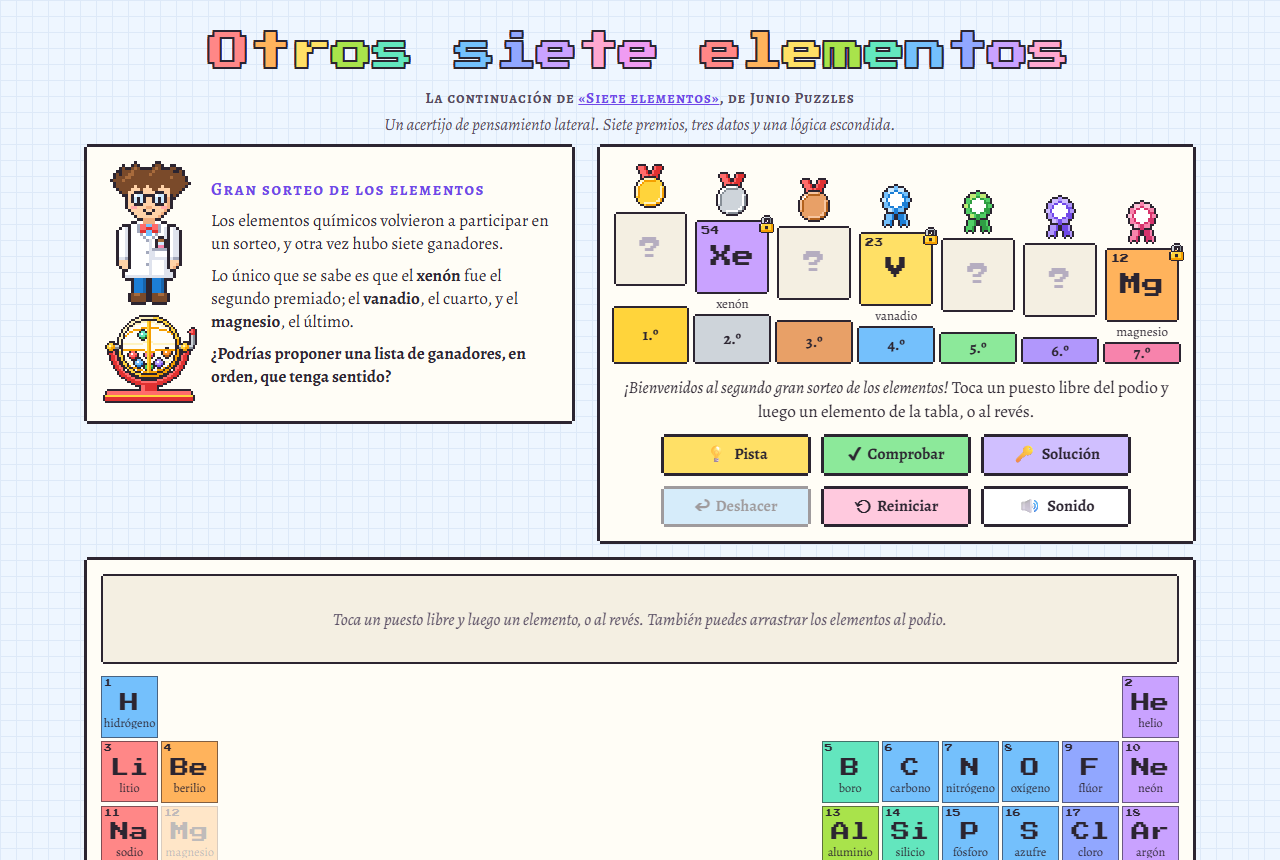
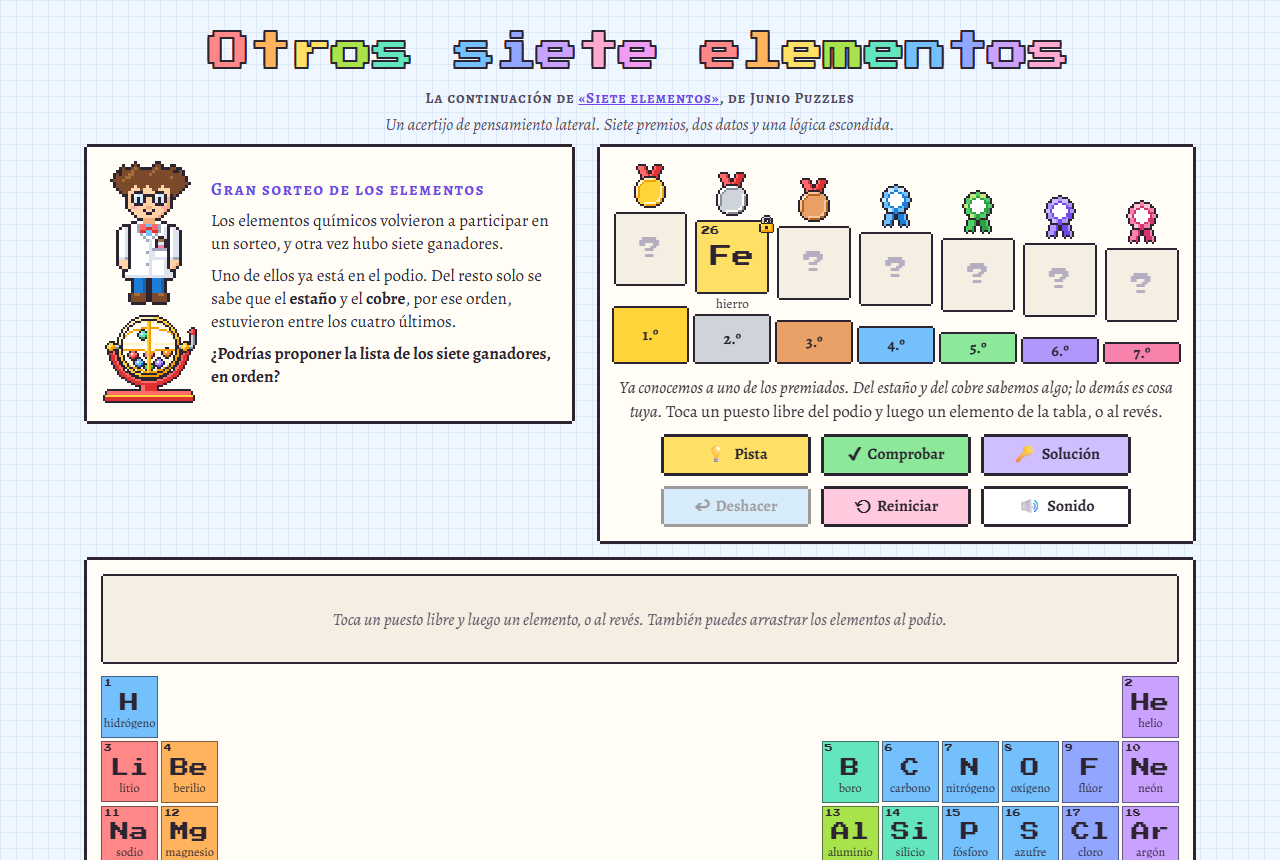
Otros siete elementos, segunda versión: una lógica nueva y más difícil (juego web)
- Un premiado fijo en el podio y un solo dato en el enunciado.
- Pistas, mensajes, ayuda y README nuevos.

diff --git a/index.html b/index.html
@@ -4,7 +4,7 @@
 <meta charset="utf-8">
 <meta name="viewport" content="width=device-width,initial-scale=1,viewport-fit=cover">
 <title>Otros siete elementos</title>
-<meta name="description" content="Un acertijo de pensamiento lateral: los elementos químicos vuelven a un sorteo con siete premios. Solo se sabe quién quedó 2.º, 4.º y último. ¿Puedes proponer una lista de ganadores que tenga sentido?">
+<meta name="description" content="Un acertijo de pensamiento lateral: los elementos químicos vuelven a un sorteo con siete premios. Uno ya está en el podio, y del resto solo se sabe que el estaño y el cobre, por ese orden, estuvieron entre los cuatro últimos. ¿Quiénes fueron los siete, y en qué orden?">
 <link rel="preconnect" href="https://fonts.googleapis.com"><link rel="preconnect" href="https://fonts.gstatic.com" crossorigin>
 <link href="https://fonts.googleapis.com/css2?family=Alegreya:ital,wght@0,400;0,700;1,400&family=Alegreya+SC:wght@700&family=Press+Start+2P&display=swap" rel="stylesheet">
 <style>
@@ -139,12 +139,13 @@ canvas.px{image-rendering:pixelated;image-rendering:crisp-edges}
 .pie{display:flex;gap:10px;justify-content:center;flex-wrap:wrap;margin-top:12px}
 .premio-tit{font-family:var(--pixel);font-size:clamp(20px,6vw,32px);margin:8px 0 14px;color:var(--oro);
   text-shadow:2px 0 0 var(--tinta),-2px 0 0 var(--tinta),0 2px 0 var(--tinta),0 -2px 0 var(--tinta),2px 2px 0 var(--tinta),-2px -2px 0 var(--tinta),2px -2px 0 var(--tinta),-2px 2px 0 var(--tinta)}
-.panel{--tk:clamp(21px,6.9vw,44px);display:inline-block;background:#e9dfc4;padding:8px 10px 10px;box-shadow:var(--borde);margin:4px 3px 12px;max-width:100%;text-align:left}
-.panel-fila{display:flex;gap:3px;margin:3px 0}
-.panel-fila:nth-child(2){margin-left:calc(var(--tk) * .3)}
-.panel-fila:nth-child(3){margin-left:calc(var(--tk) * .8)}
-.pieza{position:relative;width:var(--tk);height:var(--tk);background:#fffdf6;box-shadow:inset 0 0 0 2px var(--tinta),inset 0 -4px 0 0 #d8ccad;display:flex;flex-direction:column;align-items:center;justify-content:center;gap:calc(var(--tk) * .08);font-family:var(--pixel);font-size:calc(var(--tk) * .3);line-height:1;padding-bottom:3px}
-.pieza small{font-size:calc(var(--tk) * .19);line-height:1}
+/* el panel del premio: siete casillas, una por ganador, que se van encendiendo */
+.panel{--tk:clamp(38px,11.5vw,70px);display:flex;gap:4px;justify-content:center;background:#e9dfc4;padding:10px 8px 12px;box-shadow:var(--borde);margin:4px 3px 12px;max-width:100%}
+.pieza{position:relative;width:var(--tk);height:calc(var(--tk) * 1.55);background:#fffdf6;box-shadow:inset 0 0 0 2px var(--tinta),inset 0 -4px 0 0 #d8ccad;display:flex;flex-direction:column;align-items:center;justify-content:center;gap:calc(var(--tk) * .07);line-height:1;padding-bottom:4px}
+.pieza b{font-family:var(--pixel);font-weight:400;font-size:calc(var(--tk) * .32)}
+/* el nombre bajo la letra tiene que caber entero también en el móvil (el más largo, en 41 px): letra pequeña y sin espaciado */
+.pieza em{font-family:'Alegreya SC',var(--texto);font-style:normal;font-weight:700;font-size:clamp(6.5px,calc(var(--tk) * .185),14px);color:var(--tinta2);letter-spacing:0;max-width:100%;white-space:nowrap;padding:0 1px}
+.pieza small{font-family:var(--pixel);font-size:calc(var(--tk) * .19);line-height:1}
 .pieza small:empty{display:none}
 .pieza.on{background:var(--c);animation:pulsa .3s steps(2)}
 @keyframes pulsa{50%{transform:translateY(-4px)}}
@@ -164,7 +165,7 @@ body.arrastrando,body.arrastrando *{cursor:grabbing!important}
 <header class="cabecera">
   <h1 id="titulo" aria-label="Otros siete elementos">Otros siete elementos</h1>
   <p class="continuacion">La continuación de <a href="https://juniopuzzles.wordpress.com/2026/10/25/siete-elementos/">«Siete elementos»</a>, de Junio Puzzles</p>
-  <p class="lema">Un acertijo de pensamiento lateral. Siete premios, tres datos y una lógica escondida.</p>
+  <p class="lema">Un acertijo de pensamiento lateral. Siete premios, dos datos y una lógica escondida.</p>
 </header>
 <div class="arriba">
   <section class="caja cartel" aria-label="El sorteo">
@@ -172,8 +173,8 @@ body.arrastrando,body.arrastrando *{cursor:grabbing!important}
     <div class="bocadillo">
       <p class="rotulo">Gran sorteo de los elementos</p>
       <p>Los elementos químicos volvieron a participar en un sorteo, y otra vez hubo siete ganadores.</p>
-      <p>Lo único que se sabe es que el <b>xenón</b> fue el segundo premiado; el <b>vanadio</b>, el cuarto, y el <b>magnesio</b>, el último.</p>
-      <p class="pregunta">¿Podrías proponer una lista de ganadores, en orden, que tenga sentido?</p>
+      <p>Uno de ellos ya está en el podio. Del resto solo se sabe que el <b>estaño</b> y el <b>cobre</b>, por ese orden, estuvieron entre los cuatro últimos.</p>
+      <p class="pregunta">¿Podrías proponer la lista de los siete ganadores, en orden?</p>
     </div>
   </section>
   <section class="caja" aria-label="El podio">
@@ -198,10 +199,10 @@ body.arrastrando,body.arrastrando *{cursor:grabbing!important}
 <section class="caja como">
   <details open><summary>Cómo se juega</summary>
     <p>• Toca un puesto libre del podio y después un elemento de la tabla periódica, o al revés. En el ordenador también puedes arrastrar. Toca un puesto ocupado para vaciarlo.</p>
-    <p>• El xenón (2.º), el vanadio (4.º) y el magnesio (7.º) ya están en su sitio. Un elemento no puede ganar dos veces.</p>
+    <p>• Uno de los premiados ya está en su sitio, con candado. Un elemento no puede ganar dos veces.</p>
     <p>• Al completar el podio, o al pulsar <b>✔ Comprobar</b>, sabrás si la lista vale, pero no qué casilla falla.</p>
-    <p>• <b>💡 Pista</b> te ayuda un poco más cada vez que la pulsas. <b>🔑 Solución</b> enseña una lista que vale.</p>
-    <p>• Hay muchas listas posibles: basta con que la tuya siga la lógica del sorteo.</p>
+    <p>• <b>💡 Pista</b> te ayuda un poco más cada vez que la pulsas. <b>🔑 Solución</b> enseña la lista.</p>
+    <p>• Hay una sola lista que encaja: la que sigue la lógica del sorteo.</p>
   </details>
 </section>
 </div>
@@ -1025,13 +1026,13 @@ const ELEMENTOS = [
     for (let i = 0; i < bin.length; i++) bytes[i] = bin.charCodeAt(i) ^ clave.charCodeAt(i % clave.length);
     return JSON.parse(new TextDecoder().decode(bytes));
   }
[1 lines of base64/hex data omitted]
-  const FILA = S.fila;
[1 lines of base64/hex data omitted]
   const OFICIAL = S.oficial;
-  // tres datos fijos: el magnesio, último, lo añadió Fali (27-oct) para que no valga el alfabeto al revés (Y X W V U T S)
-  const INICIAL = [null, 'Xe', null, 'V', null, null, 'Mg'];
+  // el podio arranca con un solo premiado, fijo en el 2.º, que el texto no nombra; el enunciado habla solo del estaño y
+  // del cobre (Fali, 27-oct: con el 6.º fijo cabía otra lectura)
+  const INICIAL = OFICIAL.map((s, i) => (i === 1 ? s : null));
   const FIJO = INICIAL.map(Boolean);
-  const LIBRES = [0, 2, 4, 5];
+  const LIBRES = [0, 2, 3, 4, 5, 6];
   const N_TEXTO = S.pistas.length; // pistas que solo dicen algo; las demás colocan un ganador
   const N_PISTAS = N_TEXTO + LIBRES.length;
   const FAMILIAS = { alc: 'alcalinos', alt: 'alcalinotérreos', tra: 'metales de transición', pos: 'otros metales', met: 'metaloides', nom: 'no metales', hal: 'halógenos', gas: 'gases nobles', lan: 'lantánidos', act: 'actínidos' };
@@ -1039,7 +1040,7 @@ const ELEMENTOS = [
   const MSG_INICIO = 'Toca un puesto libre del podio y luego un elemento de la tabla, o al revés.';
   // frases del presentador (de Cowork): donde hay varias, una al azar
   const FRASES = {
-    inicio: ['¡Bienvenidos al segundo gran sorteo de los elementos!', 'Ya conocemos a tres de los premiados. Los otros cuatro son cosa tuya.'],
+    inicio: ['¡Bienvenidos al segundo gran sorteo de los elementos!', 'Ya conocemos a uno de los premiados. Del estaño y del cobre sabemos algo; lo demás es cosa tuya.'],
     poner: ['Anotado.', 'Interesante elección…', '¿Seguro? Aquí nada es casualidad.', 'Ese elemento se va a poner muy contento.'],
     quitar: ['Fuera del podio. Sin rencores.'],
     pista: ['Te doy una pista, pero que no se entere el notario.'],
@@ -1048,50 +1049,35 @@ const ELEMENTOS = [
     espera: ['Tómate tu tiempo: el bombo no tiene prisa.'],
   };
   const frase = (k) => `<i>${FRASES[k][Math.floor(Math.random() * FRASES[k].length)]}</i>`;
-  const MSG_CASI = '¡Caliente, caliente! Pero aquí mandan los símbolos, no los nombres.';
 
   const EL = new Map();
   for (const [z, s, es, en, p, g, f] of ELEMENTOS) EL.set(s, { z, s, es, en, p, g, f });
   const ord = (i) => (i + 1) + '.º';
+  // delante de «puesto» o «ganador» van primer y tercer: 1.er y 3.er (RAE; Cowork)
+  const ordM = (i) => (i === 0 ? '1.er' : i === 2 ? '3.er' : ord(i));
+  const delNombre = (e) => (e.es === 'plata' ? 'de la ' : 'del ') + e.es;
+  const avisoFijo = (i) => aviso(`El ${ordM(i)} puesto es ${delNombre(EL.get(INICIAL[i]))}: ese premio ya se sabía.`);
   const nombreDe = (e) => `${e.es === 'plata' ? 'la' : 'el'} ${e.es} (${e.s})`;
   const cap = (t) => t.charAt(0).toUpperCase() + t.slice(1);
-  const encaja = (s, i) => !!s && s[0] === FILA[i];
-  // «casi»: la casilla vale por el nombre (en español o en inglés) pero no por el símbolo: el cinc o el circonio en la C
-  const porNombre = (s, i) => { const e = EL.get(s); return !!e && (e.es[0].toUpperCase() === FILA[i] || e.en[0].toUpperCase() === FILA[i]); };
-  const casi = (lista) => !valida(lista) && lista.every((s, i) => s && (encaja(s, i) || porNombre(s, i))) && new Set(lista).size === 7;
-  // listas que solo están ordenadas (de mayor a menor número atómico, o símbolos o nombres al revés del alfabeto)
-  const bajan = (xs, cmp) => xs.every((x, i) => i === 0 || cmp(xs[i - 1], x) > 0);
-  const alfa = (a, b) => a.localeCompare(b, 'es', { sensitivity: 'base' });
-  const ordenada = (lista) => bajan(lista.map((s) => EL.get(s).z), (a, b) => a - b) || bajan(lista, alfa) || bajan(lista.map((s) => EL.get(s).es), alfa);
-  // dominó de números atómicos (Cowork): cada número empieza por la última cifra del anterior, o al revés
-  const encadena = (lista, f) => lista.map((s) => String(EL.get(s).z)).every((z, i, zs) => i === 0 || f(zs[i - 1], z));
-  const domino = (lista) => encadena(lista, (a, b) => b[0] === a[a.length - 1]) || encadena(lista, (a, b) => b[b.length - 1] === a[0]);
-  // qué contesta el juego a una lista completa
+  // la lista es única: vale solo la oficial
+  const valida = (lista) => Array.isArray(lista) && lista.length === 7 && lista.every((s, i) => s === OFICIAL[i]);
+  const DE_LA_LISTA = new Set(OFICIAL);
+  // los siete ganadores, en el orden que sea
+  const losSiete = (lista) => lista.every((s) => DE_LA_LISTA.has(s)) && new Set(lista).size === 7;
+  // el dato del enunciado: el estaño y el cobre, por ese orden, entre los cuatro últimos (del 4.º al 7.º)
+  const cumple = (lista) => { const a = lista.indexOf('Sn'), b = lista.indexOf('Cu'); return a >= 3 && b >= 3 && a < b; };
+  // qué contesta el juego a una lista completa (Cowork): vale > no cumple el enunciado > los siete en otro orden > no cuadra.
+  // Ya no hace falta el mensaje de las listas ordenadas: con el estaño antes que el cobre, ninguna lista que cumpla el
+  // enunciado va por el abecedario ni por el número atómico creciente
   function veredicto(lista) {
     if (valida(lista)) return 'vale';
-    if (casi(lista)) return 'casi';
-    if (ordenada(lista)) return 'orden';
-    if (domino(lista)) return 'domino';
+    if (!cumple(lista)) return 'enunciado';
+    if (losSiete(lista)) return 'conjunto';
     return 'no';
   }
-  function valida(lista) {
-    return Array.isArray(lista) && lista.length === 7 && lista.every((s) => EL.has(s)) &&
-      new Set(lista).size === 7 && lista.every((s, i) => encaja(s, i) && (!FIJO[i] || s === INICIAL[i]));
-  }
-  const CANDIDATOS = [...FILA].map((L, i) => (FIJO[i] ? [INICIAL[i]] : ELEMENTOS.filter((e) => e[1][0] === L).map((e) => e[1])));
-  // cuántas listas valen: se enumeran una a una
-  const TOTAL = (() => {
-    let n = 0;
-    const usados = new Set();
-    (function rec(i) {
-      if (i === 7) { n++; return; }
-      for (const s of CANDIDATOS[i]) if (!usados.has(s)) { usados.add(s); rec(i + 1); usados.delete(s); }
-    })(0);
-    return n;
-  })();
-  // con la última pista de texto se iluminan los candidatos de los puestos libres
-  const LETRAS_LIBRES = LIBRES.map((i) => FILA[i]).join('');
-  const N_BRILLAN = LIBRES.reduce((a, i) => a + CANDIDATOS[i].length, 0);
+  // con la última pista de texto se iluminan en la tabla los ganadores que faltan por colocar
+  const BRILLAN = LIBRES.map((i) => OFICIAL[i]);
+  const N_BRILLAN = BRILLAN.length;
 
   // casilla de cada elemento en la tabla: fila 1-7 los periodos, 8 hueco, 9 lantánidos, 10 actínidos
   function sitio(e) {
@@ -1112,7 +1098,7 @@ const ELEMENTOS = [
   }
 
   // ---------- estado y guardado ----------
-  const CLAVE = 'otros-siete-elementos-v1';
+  const CLAVE = 'otros-siete-elementos-v2'; // v2: lógica nueva; las partidas guardadas de la v1 no sirven
   const opciones = { sonido: true };
   const nuevo = () => ({ podio: INICIAL.slice(), pistas: 0, fallos: 0, resaltar: false, ganado: false, conSolucion: false, ultimaMala: null });
   function podioBueno(p) {
@@ -1205,7 +1191,7 @@ const ELEMENTOS = [
   tabla.querySelectorAll('.el').forEach((b) => CELDA.set(b.dataset.s, b));
   $('leyenda').innerHTML = Object.entries(FAMILIAS).map(([k, n]) => `<span><i style="--c:var(--${k})"></i>${n}</span>`).join('');
   const panel = $('panel');
-  panel.innerHTML = S.filas.map((f) => `<div class="panel-fila">${[...f].map((L) => `<span class="pieza" data-l="${L}">${L}<small></small></span>`).join('')}</div>`).join('');
+  panel.innerHTML = S.casillas.map((d, i) => `<span class="pieza" data-d="${i}" title="${d.t}"><b>${d.c}</b><em>${d.e}</em><small></small></span>`).join('');
 
   function medir() {
     const cw = (tabla.clientWidth - 17 * 2) / 18;
@@ -1231,7 +1217,7 @@ const ELEMENTOS = [
       b.classList.toggle('vacio', !e);
       b.classList.toggle('sel', selPuesto === i);
       b.setAttribute('aria-pressed', selPuesto === i ? 'true' : 'false');
-      b.setAttribute('aria-label', `${ord(i)} puesto: ${e ? e.es : 'vacío'}${FIJO[i] ? ', fijo' : ''}`);
+      b.setAttribute('aria-label', `${ordM(i)} puesto: ${e ? e.es : 'vacío'}${FIJO[i] ? ', fijo' : ''}`);
     });
   }
   function pintarTabla() {
@@ -1239,7 +1225,7 @@ const ELEMENTOS = [
     for (const [s, b] of CELDA) {
       b.classList.toggle('usado', usados.has(s));
       b.classList.toggle('elegido', selElem === s);
-      b.classList.toggle('brilla', est.resaltar && LETRAS_LIBRES.includes(s[0]));
+      b.classList.toggle('brilla', est.resaltar && BRILLAN.includes(s));
       b.setAttribute('aria-pressed', selElem === s ? 'true' : 'false');
     }
   }
@@ -1253,8 +1239,8 @@ const ELEMENTOS = [
     }
     const donde = est.podio.indexOf(e.s);
     let nota = '', poner = '';
-    if (donde >= 0 && FIJO[donde]) nota = `<p class="nota">Es el ${ord(donde)} ganador: lo dice el enunciado.</p>`;
-    else if (donde >= 0) nota = `<p class="nota">Está en el ${ord(donde)} puesto.${est.ganado || ocupado ? '' : ` <button class="enlace" data-quitar="${donde}">Quitarlo</button>`}</p>`;
+    if (donde >= 0 && FIJO[donde]) nota = `<p class="nota">Es el ${ordM(donde)} ganador: ya estaba en el podio.</p>`;
+    else if (donde >= 0) nota = `<p class="nota">Está en el ${ordM(donde)} puesto.${est.ganado || ocupado ? '' : ` <button class="enlace" data-quitar="${donde}">Quitarlo</button>`}</p>`;
     if (!est.ganado && !ocupado && !(donde >= 0 && FIJO[donde])) {
       poner = `<div class="poner"><span>${donde >= 0 ? 'Moverlo al:' : 'Ponerlo en el:'}</span>` + LIBRES.map((i) => {
         const otro = est.podio[i];
@@ -1347,15 +1333,15 @@ const ELEMENTOS = [
   function apuntar() { hist.push(est.podio.slice()); if (hist.length > 300) hist.shift(); }
   function colocar(s, i) {
     if (ocupado || est.ganado || !EL.has(s)) return false;
-    if (FIJO[i]) { aviso(`El ${ord(i)} puesto es del ${EL.get(INICIAL[i]).es}: lo dice el enunciado.`); return false; }
+    if (FIJO[i]) { avisoFijo(i); return false; }
     const ya = est.podio.indexOf(s);
-    if (ya >= 0 && FIJO[ya]) { aviso(`${cap(nombreDe(EL.get(s)))} es el ${ord(ya)} ganador: no se mueve.`); return false; }
+    if (ya >= 0 && FIJO[ya]) { aviso(`${cap(nombreDe(EL.get(s)))} es el ${ordM(ya)} ganador: no se mueve.`); return false; }
     if (ya === i) return false;
     apuntar();
     if (ya >= 0) est.podio[ya] = null;
     est.podio[i] = s;
     selPuesto = null; selElem = null;
-    decir(`${frase('poner')} ${ord(i)} puesto: ${nombreDe(EL.get(s))}.`);
+    decir(`${frase('poner')} ${ordM(i)} puesto: ${nombreDe(EL.get(s))}.`);
     girarBombo();
     cambiado();
     if (!revisarFinal()) sonar('poner');
@@ -1363,12 +1349,12 @@ const ELEMENTOS = [
   }
   function quitar(i) {
     if (ocupado || est.ganado) return;
-    if (FIJO[i]) { aviso(`El ${ord(i)} puesto es del ${EL.get(INICIAL[i]).es}: lo dice el enunciado.`); return; }
+    if (FIJO[i]) { avisoFijo(i); return; }
     const s = est.podio[i];
     if (!s) return;
     apuntar();
     est.podio[i] = null; selElem = null;
-    decir(`${frase('quitar')} Has quitado ${nombreDe(EL.get(s))} del ${ord(i)} puesto.`);
+    decir(`${frase('quitar')} Has quitado ${nombreDe(EL.get(s))} del ${ordM(i)} puesto.`);
     sonar('quitar');
     cambiado();
   }
@@ -1378,17 +1364,15 @@ const ELEMENTOS = [
     juzgar('wahwah');
     return true;
   }
-  // lista completa: premio, «casi» (no cuenta como fallo) o fallo; el sonido del fallo depende de quién pregunta
+  // lista completa: premio o fallo (con mensaje propio si son los siete pero en otro orden); el sonido depende de quién pregunta
   function juzgar(sonidoFallo) {
     const v = veredicto(est.podio);
     if (v === 'vale') { victoria(false); return; }
-    if (v === 'casi') { sonar('no'); decir(MSG_CASI); return; }
     contarFallo();
     sonar(sonidoFallo);
-    // a las listas que solo están ordenadas se les dice que ordenar no es la lógica (el aviso anterior hacía creer que el orden era el bueno)
     const motivo = {
-      orden: 'No cuadra. Ordenarlos por el abecedario o por el número atómico no es la lógica del sorteo.',
-      domino: 'No cuadra. Encadenar las cifras de los números atómicos no es la lógica del sorteo.',
+      enunciado: 'Así no cumple el enunciado: el estaño y el cobre, por ese orden, estuvieron entre los cuatro últimos.' + (losSiete(est.podio) ? ' ¡Pero son los siete!' : ''),
+      conjunto: S.conjunto,
     };
     decir((motivo[v] || 'No cuadra. Los premios no cayeron al azar.') +
       (est.fallos >= 3 ? ' ¿Te echo una mano? Pulsa 💡 Pista.' : ''));
@@ -1401,11 +1385,11 @@ const ELEMENTOS = [
   function tocarPuesto(i) {
     if (ocupado) return;
     if (est.ganado) { aviso('Ya está resuelto. Pulsa ⟲ Reiniciar para jugar otra vez.'); return; }
-    if (FIJO[i]) { aviso(`El ${ord(i)} puesto es del ${EL.get(INICIAL[i]).es}: lo dice el enunciado.`); return; }
+    if (FIJO[i]) { avisoFijo(i); return; }
     if (selElem && est.podio[i] !== selElem) { colocar(selElem, i); return; }
     if (est.podio[i]) { quitar(i); return; }
     selPuesto = selPuesto === i ? null : i;
-    decir(selPuesto === null ? MSG_INICIO : `Ahora elige en la tabla al ${ord(i)} ganador.`);
+    decir(selPuesto === null ? MSG_INICIO : `Ahora elige en la tabla al ${ordM(i)} ganador.`);
     sonar('clic');
     pintar();
   }
@@ -1467,16 +1451,16 @@ const ELEMENTOS = [
     if (est.pistas < N_TEXTO) {
       est.pistas++;
       if (est.pistas === N_TEXTO) est.resaltar = true; // con la última pista de texto se iluminan los candidatos
-      mostrarPista(est.pistas, TEXTOS_PISTA[est.pistas - 1] + (est.pistas === N_TEXTO ? ` <span class="nota">Te he iluminado en la tabla los ${N_BRILLAN} elementos que pueden servir.</span>` : ''));
+      mostrarPista(est.pistas, TEXTOS_PISTA[est.pistas - 1] + (est.pistas === N_TEXTO ? ` <span class="nota">Te he iluminado en la tabla los ${N_BRILLAN} ganadores que faltan.</span>` : ''));
       decir(frase('pista'));
       sonar('pista');
       cambiado();
       return;
     }
-    // antes de colocar, señala los puestos que no encajan
-    const mal = LIBRES.filter((i) => est.podio[i] && !encaja(est.podio[i], i));
+    // antes de colocar, señala los puestos que no son los de la lista
+    const mal = LIBRES.filter((i) => est.podio[i] && est.podio[i] !== OFICIAL[i]);
     if (mal.length) {
-      const lista = mal.map((i) => `<li>El ${ord(i)}, ${nombreDe(EL.get(est.podio[i]))}: el símbolo tiene que empezar por ${FILA[i]}.</li>`).join('');
+      const lista = mal.map((i) => `<li>El ${ord(i)}, ${nombreDe(EL.get(est.podio[i]))}: no es el ganador de ese puesto.</li>`).join('');
       abrirModal(`<h2>ANTES DE LA PISTA</h2><p>${mal.length === 1 ? 'Hay un ganador que no encaja:' : `Hay ${mal.length} ganadores que no encajan:`}</p><ul style="text-align:left;margin:6px auto;max-width:460px;padding-left:22px">${lista}</ul>` +
         `<div class="pie"><button class="boton b-pista" data-a="quitar">Quitar${mal.length === 1 ? 'lo' : 'los'} y ver la pista</button><button class="boton" data-a="no">Ahora no</button></div>`, (c) => {
         c.querySelector('[data-a="quitar"]').onclick = () => { apuntar(); for (const i of mal) est.podio[i] = null; cerrarModal(); sonar('quitar'); cambiado(); pedirPista(); };
@@ -1490,8 +1474,8 @@ const ELEMENTOS = [
     est.podio[i] = OFICIAL[i];
     est.pistas++;
     selPuesto = null; selElem = null;
-    mostrarPista(est.pistas, `Te coloco un ganador: el ${ord(i)} puesto es para ${nombreDe(EL.get(OFICIAL[i]))}.`);
-    decir(`${ord(i)} puesto: ${nombreDe(EL.get(OFICIAL[i]))}.`);
+    mostrarPista(est.pistas, `Te coloco un ganador: el ${ordM(i)} puesto es para ${nombreDe(EL.get(OFICIAL[i]))}.`);
+    decir(`${ordM(i)} puesto: ${nombreDe(EL.get(OFICIAL[i]))}.`);
     girarBombo();
     cambiado();
     if (!revisarFinal()) sonar('pista');
@@ -1512,7 +1496,7 @@ const ELEMENTOS = [
     for (const i of LIBRES) {
       est.podio[i] = OFICIAL[i];
       guardar(); pintar(); sonar('poner'); girarBombo();
-      decir(`🔑 ${ord(i)} puesto: ${nombreDe(EL.get(OFICIAL[i]))}.`);
+      decir(`🔑 ${ordM(i)} puesto: ${nombreDe(EL.get(OFICIAL[i]))}.`);
       await espera(900); if (t !== tok) return;
     }
     victoria(true, t);
@@ -1524,14 +1508,14 @@ const ELEMENTOS = [
   }
   function cerrarPremio() { premio.hidden = true; }
   function encender(i) {
-    const s = est.podio[i], e = EL.get(s), k = panel.querySelector(`[data-l="${FILA[i]}"]`);
+    const s = est.podio[i], e = EL.get(s), k = panel.querySelector(`[data-d="${i}"]`);
     k.classList.add('on'); k.style.setProperty('--c', `var(--${e.f})`); k.querySelector('small').textContent = s;
   }
   function volar(i, t) {
     return new Promise((res) => {
       const fin = () => { if (t === tok) { encender(i); sonar('nota' + i); } res(); };
       const desde = PUESTOS[i].querySelector('.losa').getBoundingClientRect();
-      const hasta = panel.querySelector(`[data-l="${FILA[i]}"]`).getBoundingClientRect();
+      const hasta = panel.querySelector(`[data-d="${i}"]`).getBoundingClientRect();
       if (reducido || !desde.width || !hasta.width) { setTimeout(fin, 280); return; }
       const e = EL.get(est.podio[i]), v = document.createElement('div');
       v.className = 'vuelo'; v.textContent = e.s;
@@ -1546,12 +1530,14 @@ const ELEMENTOS = [
       setTimeout(() => { v.remove(); fin(); }, 500);
     });
   }
-  // textos de Cowork (§6); los que dicen el truco vienen cifrados en S
+  // el texto que explica el truco viene cifrado en S
   function textoPremio() {
-    if (est.conSolucion) return `<p>${S.premioSolucion.replace('{N}', `<b>${TOTAL}</b>`)}</p><p>Pulsa ⟲ Reiniciar y busca la tuya.</p>`;
-    const oficial = est.podio.every((s, i) => s === OFICIAL[i]);
-    return `<p>${S.premio}</p><p>Hay <b>${TOTAL}</b> listas que encajan, y la tuya es una de ellas.${oficial ? ' Además, es la lista oficial.' : ''}</p>` +
-      `<p><b>${est.pistas === 0 ? 'Sin pistas. ¡Enhorabuena!' : est.pistas === 1 ? 'Con 1 pista.' : `Con ${est.pistas} pistas.`}</b></p>`;
+    if (est.conSolucion) return `<p>${S.premio}</p><p>Es la única lista que encaja. Pulsa ⟲ Reiniciar y juega tú.</p>`;
+    // se enseñan también las listas rechazadas, para que quien fuerce el orden lo vea en su resultado (Cowork)
+    const pistas = est.pistas === 0 ? 'Sin pistas' : est.pistas === 1 ? 'Con 1 pista' : `Con ${est.pistas} pistas`;
+    const fallos = est.fallos === 0 ? 'y a la primera' : est.fallos === 1 ? 'y 1 lista rechazada' : `y ${est.fallos} listas rechazadas`;
+    return `<p>${S.premio}</p><p>Es la única lista que encaja, y la has encontrado.</p>` +
+      `<p><b>${pistas} ${fallos}.${est.pistas === 0 && est.fallos === 0 ? ' ¡Enhorabuena!' : ''}</b></p>`;
   }
   async function victoria(conSol, t0) {
     const t = t0 || ++tok;
@@ -1701,9 +1687,9 @@ const ELEMENTOS = [
   else { msg.innerHTML = `${frase('inicio')} ${MSG_INICIO}`; esperar(); }
   pintar();
 
-  // para el robot de pruebas
+  // para el robot de pruebas (sin la lista oficial ni los que se iluminan: que destripar cueste algo, Cowork)
   window.OSE = {
-    ELEMENTOS, FILA, OFICIAL, N_PISTAS, total: TOTAL, nBrillan: N_BRILLAN, candidatos: CANDIDATOS, valida, veredicto, sonados,
+    ELEMENTOS, N_PISTAS, nBrillan: N_BRILLAN, valida, veredicto, sonados,
     estado: () => JSON.parse(JSON.stringify({ est, selPuesto, selElem, ocupado, hist: hist.length, directo })),
   };
 })();

diff --git a/README.md b/README.md
@@ -1,8 +1,9 @@
 # Otros siete elementos
 
-Un acertijo de pensamiento lateral. Los elementos químicos vuelven a un sorteo con siete premios, y solo se sabe que
-el xenón fue el segundo; el vanadio, el cuarto, y el magnesio, el último. ¿Puedes proponer una lista de ganadores que
-tenga sentido? Juego web autónomo en un único `index.html`.
+Un acertijo de pensamiento lateral. Los elementos químicos vuelven a un sorteo con siete premios. Uno de los ganadores
+ya está en el podio, y del resto solo se sabe que el estaño y el cobre, por ese orden, estuvieron entre los cuatro
+últimos. ¿Quiénes fueron los siete, y en qué orden?
+Juego web autónomo en un único `index.html`.
 
 **Jugar:** https://spyder-cripto.github.io/otros-siete-elementos/
 
@@ -11,10 +12,10 @@ tenga sentido? Juego web autónomo en un único `index.html`.
 ## Cómo se juega
 - Toca una casilla libre del podio y después un elemento de la tabla periódica, o al revés. En el ordenador también
   puedes arrastrar.
-- El xenón (2.º), el vanadio (4.º) y el magnesio (7.º) ya están en su sitio.
-- Cuando tengas los siete, pulsa **Comprobar**: te dirá si la lista vale, pero no qué casilla falla.
-- **Pista** te ayuda un poco más cada vez que la pulsas. **Solución** enseña una lista que vale.
-- Hay muchas listas posibles: basta con que la tuya siga la lógica del sorteo.
+- Uno de los premiados ya está en su sitio, con candado.
+- Cuando tengas los siete, el juego te dirá si la lista vale, pero no qué casilla falla.
+- **Pista** te ayuda un poco más cada vez que la pulsas. **Solución** enseña la lista.
+- Hay una sola lista que encaja: la que sigue la lógica del sorteo.
 
 ## Créditos
 - Basado en el acertijo [«Siete elementos»](https://juniopuzzles.wordpress.com/2026/10/25/siete-elementos/), de Junio Puzzles.
